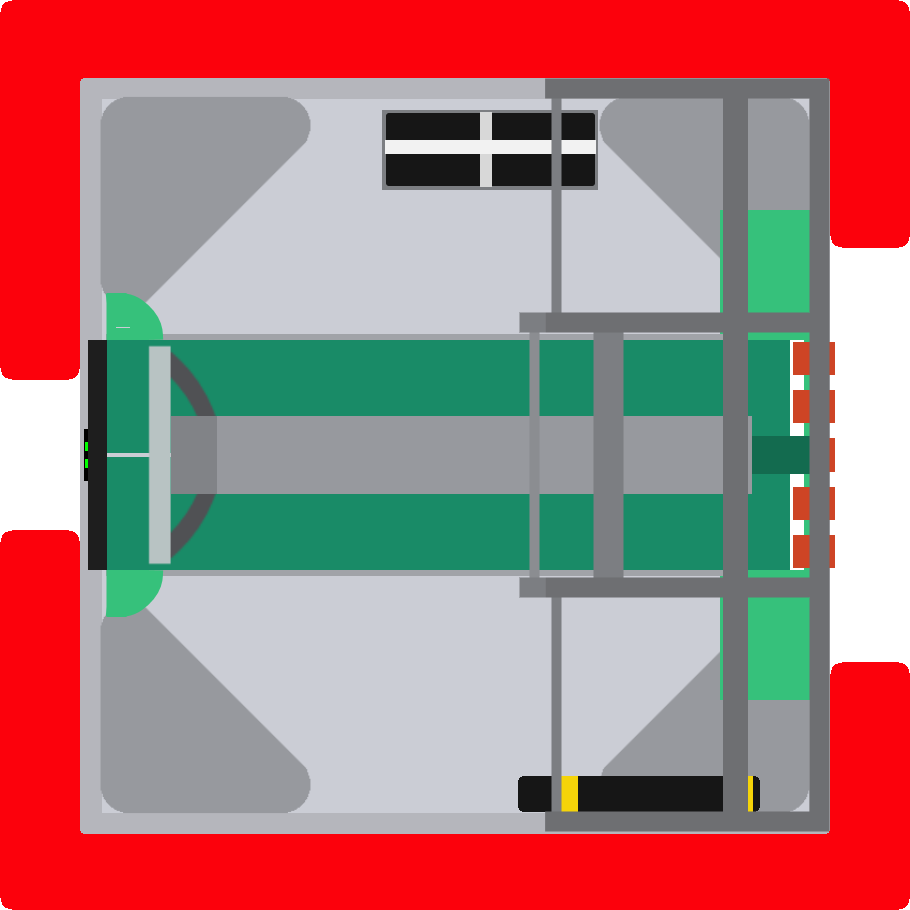
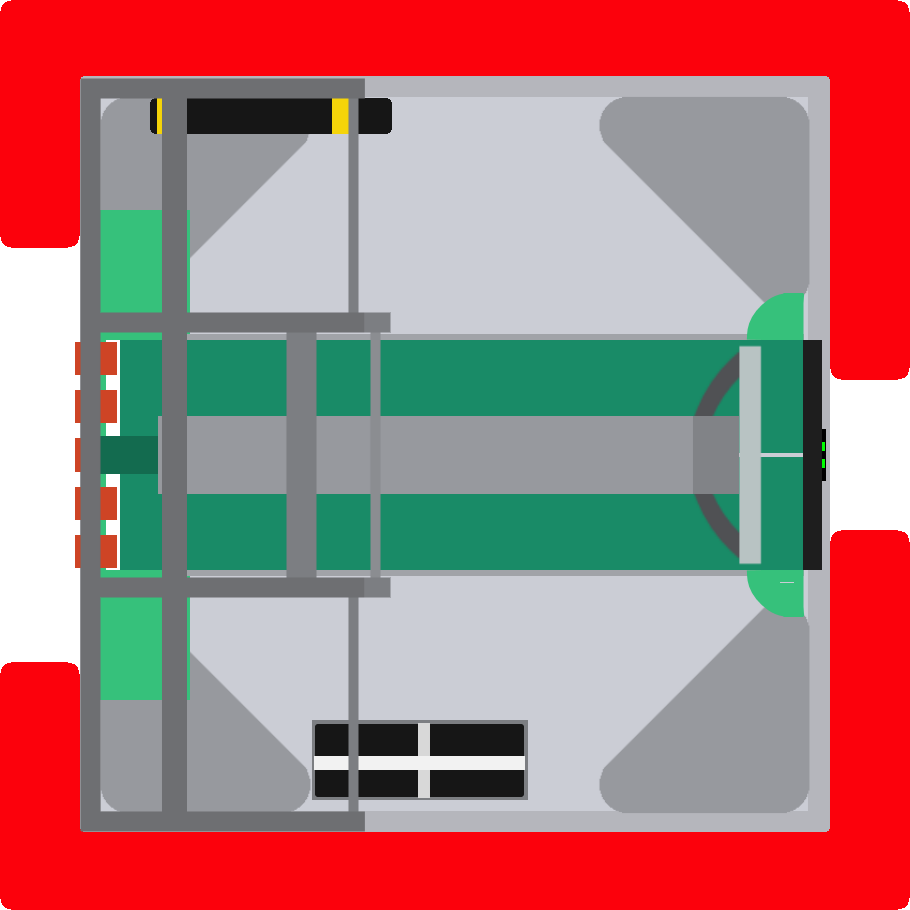
Working AutoPilot for above ramp to hub 1

diff --git a/src/obstacleavoiding/gui/Graph.java b/src/obstacleavoiding/gui/Graph.java
@@ -1,0 +1,141 @@
+package obstacleavoiding.gui;
+
+import javax.swing.*;
+import java.awt.*;
+import java.util.ArrayList;
+import java.util.List;
+import java.util.function.Supplier;
+
+public class Graph extends JPanel {
+
+    private static final int padding = 25;
+    private static final int labelPadding = 25;
+    private static final Color lineColor = new Color(44, 102, 230, 180);
+    private static final Color pointColor = new Color(100, 100, 100, 180);
+    private static final Color gridColor = new Color(200, 200, 200, 200);
+    private static final Stroke GRAPH_STROKE = new BasicStroke(2f);
+    private static final int pointWidth = 4;
+    private static final int numberYDivisions = 10;
+    private final Supplier<List<Double>> scores;
+
+    public Graph(Supplier<List<Double>> scores) {
+        this.scores = scores;
+
+        this.setPreferredSize(new Dimension(800, 800));
+        this.setLocation(0, 0);
+        this.setVisible(true);
+    }
+
+    @Override
+    protected void paintComponent(Graphics g) {
+        super.paintComponent(g);
+        Graphics2D g2 = (Graphics2D) g;
+        g2.setRenderingHint(RenderingHints.KEY_ANTIALIASING, RenderingHints.VALUE_ANTIALIAS_ON);
+
+        List<Double> scores = this.scores.get();
+
+        double xScale = ((double) getWidth() - (2 * padding) - labelPadding) / (scores.size() - 1);
+        double yScale = ((double) getHeight() - 2 * padding - labelPadding) / (getMaxScore() - getMinScore());
+
+        List<Point> graphPoints = new ArrayList<>();
+        for (int i = 0; i < scores.size(); i++) {
+            int x1 = (int) (i * xScale + padding + labelPadding);
+            int y1 = (int) ((getMaxScore() - scores.get(i)) * yScale + padding);
+            graphPoints.add(new Point(x1, y1));
+        }
+
+        // draw white background
+        g2.setColor(Color.WHITE);
+        g2.fillRect(padding + labelPadding, padding, getWidth() - (2 * padding) - labelPadding, getHeight() - 2 * padding - labelPadding);
+        g2.setColor(Color.BLACK);
+
+        // create hatch marks and grid lines for y-axis.
+        for (int i = 0; i < numberYDivisions + 1; i++) {
+            int x0 = padding + labelPadding;
+            int x1 = pointWidth + padding + labelPadding;
+            int y0 = getHeight() - ((i * (getHeight() - padding * 2 - labelPadding)) / numberYDivisions + padding + labelPadding);
+            if (scores.size() > 0) {
+                g2.setColor(gridColor);
+                g2.drawLine(padding + labelPadding + 1 + pointWidth, y0, getWidth() - padding, y0);
+                g2.setColor(Color.BLACK);
+                String yLabel = ((int) ((getMinScore() + (getMaxScore() - getMinScore()) * ((i * 1.0) / numberYDivisions)) * 10000)) / 10000.0 + "";
+                FontMetrics metrics = g2.getFontMetrics();
+                int labelWidth = metrics.stringWidth(yLabel);
+                g2.drawString(yLabel, x0 - labelWidth - 5, y0 + (metrics.getHeight() / 2) - 3);
+            }
+            g2.drawLine(x0, y0, x1, y0);
+        }
+
+        // and for x-axis
+        for (int i = 0; i < scores.size(); i++) {
+            if (scores.size() > 1) {
+                int x0 = i * (getWidth() - padding * 2 - labelPadding) / (scores.size() - 1) + padding + labelPadding;
+                int y0 = getHeight() - padding - labelPadding;
+                int y1 = y0 - pointWidth;
+                if ((i % ((int) ((scores.size() / 20.0)) + 1)) == 0) {
+                    g2.setColor(gridColor);
+                    g2.drawLine(x0, getHeight() - padding - labelPadding - 1 - pointWidth, x0, padding);
+                    g2.setColor(Color.BLACK);
+                    String xLabel = i + "";
+                    FontMetrics metrics = g2.getFontMetrics();
+                    int labelWidth = metrics.stringWidth(xLabel);
+                    g2.drawString(xLabel, x0 - labelWidth / 2, y0 + metrics.getHeight() + 3);
+                }
+                g2.drawLine(x0, y0, x0, y1);
+            }
+        }
+
+        // create x and y axes
+        g2.drawLine(padding + labelPadding, getHeight() - padding - labelPadding, padding + labelPadding, padding);
+        g2.drawLine(padding + labelPadding, getHeight() - padding - labelPadding, getWidth() - padding, getHeight() - padding - labelPadding);
+
+        Stroke oldStroke = g2.getStroke();
+        g2.setColor(lineColor);
+        g2.setStroke(GRAPH_STROKE);
+        for (int i = 0; i < graphPoints.size() - 1; i++) {
+            int x1 = graphPoints.get(i).x;
+            int y1 = graphPoints.get(i).y;
+            int x2 = graphPoints.get(i + 1).x;
+            int y2 = graphPoints.get(i + 1).y;
+            g2.drawLine(x1, y1, x2, y2);
+        }
+
+        g2.setStroke(oldStroke);
+        g2.setColor(pointColor);
+        for (Point graphPoint : graphPoints) {
+            int x = graphPoint.x - pointWidth / 2;
+            int y = graphPoint.y - pointWidth / 2;
+            g2.fillOval(x, y, pointWidth, pointWidth);
+        }
+    }
+
+    private double getMinScore() {
+        return scores.get().stream().mapToDouble(s -> s).min().orElse(0);
+    }
+
+    private double getMaxScore() {
+        double maxScore = Double.MIN_VALUE;
+        for (Double score : scores.get()) {
+            maxScore = Math.max(maxScore, score);
+        }
+        return maxScore;
+    }
+
+    public List<Double> getScores() {
+        return scores.get();
+    }
+
+    public static JFrame createAndShowGui(String title, Supplier<List<Double>> scores) {
+        Graph mainPanel = new Graph(scores);
+        mainPanel.setPreferredSize(new Dimension(800, 600));
+        mainPanel.setLocation(0, 0);
+        JFrame frame = new JFrame(title);
+        frame.setDefaultCloseOperation(JFrame.EXIT_ON_CLOSE);
+        frame.getContentPane().add(mainPanel);
+        frame.pack();
+        frame.setLocationRelativeTo(null);
+        frame.setVisible(true);
+
+        return frame;
+    }
+}

diff --git a/src/obstacleavoiding/path/PurePursuit.java b/src/obstacleavoiding/path/PurePursuit.java
@@ -1,23 +1,32 @@
 package obstacleavoiding.path;
 
+import obstacleavoiding.math.MathUtil;
 import obstacleavoiding.math.geometry.Pose2d;
 import obstacleavoiding.math.geometry.Rotation2d;
 import obstacleavoiding.math.geometry.Translation2d;
+import obstacleavoiding.path.pid.PIDController;
 import obstacleavoiding.path.pid.PIDPreset;
 import obstacleavoiding.path.pid.ProfiledPIDController;
 import obstacleavoiding.path.util.Waypoint;
 
+import javax.swing.*;
 import java.util.ArrayList;
 import java.util.Arrays;
 import java.util.List;
 
 public class PurePursuit {
+
     private final List<Waypoint> waypoints;
 
     private final ProfiledPIDController driveController;
+    private final PIDController angleController;
     private final ProfiledPIDController omegaController;
 
+    private final Constants constants;
+
     private final Robot robot;
+
+    private Rotation2d drivingAngle = null;
 
     private int currentWaypoint = 1;
     private boolean isFinished = false;
@@ -25,9 +34,12 @@ public class PurePursuit {
 
     public PurePursuit(Robot robot, Constants constants, List<Waypoint> waypoints) {
         this.robot = robot;
+        this.constants = constants;
         this.waypoints = waypoints;
 
         this.driveController = new ProfiledPIDController(constants.drivePreset);
+        this.angleController = new PIDController(0.35, 0, 0);
+        this.angleController.enableContinuousInput(-180, 180);
         this.omegaController = new ProfiledPIDController(constants.omegaPreset);
     }
 
@@ -37,17 +49,45 @@ public class PurePursuit {
 
     public void update() {
         if (this.isRunning && !this.isFinished) {
-            Pose2d velocity = new Pose2d(
-                    new Translation2d(
-                            this.driveController.calculate(this.getDistanceToFinalWaypoint()),
-                            this.robot.getPosition().getTranslation().minus(this.getCurrentWaypoint()).getAngle()
-                    ),
-                    Rotation2d.fromDegrees(
-                            this.omegaController.calculate(this.robot.getPosition().getRotation().getDegrees(),
-                                    this.getCurrentWaypoint().getHeading()))
-            );
+            double distance = this.getDistanceToFinalWaypoint();
+            double velocity = -this.driveController.calculate(distance, 0);
+            double omega = this.omegaController.calculate(this.robot.getPosition().getRotation().getDegrees(), this.getCurrentWaypoint().getHeading());
 
-            this.robot.drive(velocity);
+            Rotation2d targetDrivingAngle = this.getCurrentWaypoint().minus(this.robot.getPosition().getTranslation()).getAngle();
+            if (this.drivingAngle == null || Math.abs(velocity) <= 0.4
+                    || Math.abs(drivingAngle.minus(targetDrivingAngle).getDegrees()) <= 15) {
+                drivingAngle = targetDrivingAngle;
+            } else {
+                drivingAngle = drivingAngle.rotateBy(Rotation2d.fromDegrees(
+                        angleController.calculate(drivingAngle.getDegrees(), targetDrivingAngle.getDegrees())));
+            }
+
+            this.robot.drive(new Pose2d(
+                    new Translation2d(velocity, drivingAngle),
+                    Rotation2d.fromDegrees(omega)
+            ));
+
+//            Pose2d vector = new Pose2d(
+//                    new Translation2d(
+//                            this.driveController.calculate(this.getDistanceToFinalWaypoint()),
+//                            this.angleController.calculate(
+//                                    this.robot.getVelocity().getTranslation().getAngle().getDegrees(),
+//                                    this.robot.getPosition().getTranslation().minus(this.getCurrentWaypoint()).getAngle().getDegrees()
+//                            )
+//                    ),
+//                    Rotation2d.fromDegrees(
+//                            this.omegaController.calculate(this.robot.getPosition().getRotation().getDegrees(),
+//                                    this.getCurrentWaypoint().getHeading()))
+//            );
+//
+//            Rotation2d angleAccel = this.robot.getVelocity().getTranslation().getAngle().minus(vector.getTranslation().getAngle());
+//            double velocity = Math.min(vector.getTranslation().getNorm(), this.constants.maxVel) - Math.tan(5 * angleAccel.getRadians());
+//
+//            this.robot.drive(new Pose2d(
+//                    new Translation2d(velocity,
+//                            ))),
+//                    vector.getRotation()
+//            ));
 
             if (this.getCurrentWaypoint().isPassedWaypoint(this.robot)) {
                 this.currentWaypoint++;
@@ -61,6 +101,10 @@ public class PurePursuit {
     public void reset() {
         this.currentWaypoint = 1;
         this.robot.setPosition(new Pose2d(this.getStartWaypoint(), Rotation2d.fromDegrees(this.getStartWaypoint().getHeading())));
+        this.robot.drive(new Pose2d());
+
+        this.drivingAngle = null;
+
         this.resetControllers();
         this.isFinished = false;
     }
@@ -139,5 +183,5 @@ public class PurePursuit {
         this.waypoints.set(index, waypoint);
     }
 
-    public record Constants(PIDPreset drivePreset, PIDPreset omegaPreset) {}
+    public record Constants(double maxVel, PIDPreset drivePreset, PIDPreset omegaPreset) {}
 }

diff --git a/src/obstacleavoiding/path/GUI.java b/src/obstacleavoiding/path/GUI.java
@@ -11,17 +11,21 @@ import obstacleavoiding.math.geometry.Translation2d;
 import obstacleavoiding.path.pid.PIDPreset;
 import obstacleavoiding.path.util.Waypoint;
 
+import java.util.List;
+
 import javax.swing.*;
 import java.awt.*;
 import java.awt.event.KeyEvent;
 import java.awt.event.MouseEvent;
 import java.awt.event.MouseWheelEvent;
+import java.util.ArrayList;
 
 public class GUI extends Frame implements ZeroCenter, DrawCentered {
     private static final boolean IS_CHARGED_UP_FIELD = true;
 
-    private static final double DEFAULT_MAX_VALUE = 10;
+    private static final double DEFAULT_MAX_VALUE = 8.27;
     private static final Dimension2d DIMENSION = new Dimension2d(1713, 837);
+    private static final double DEFAULT_MAX_Y = DEFAULT_MAX_VALUE * ((double) DIMENSION.getY() / DIMENSION.getX());
     private static final double PIXELS_IN_ONE_UNIT = convertMaxValueToPixels(DEFAULT_MAX_VALUE);
 
     private static final double FPS = 20;
@@ -33,6 +37,8 @@ public class GUI extends Frame implements ZeroCenter, DrawCentered {
     private final PurePursuit purePursuit;
     private final Robot robot;
 
+    private final List<Double> velocities = new ArrayList<>();
+
     private double maxValue = DEFAULT_MAX_VALUE;
 
     public GUI() {
@@ -43,16 +49,18 @@ public class GUI extends Frame implements ZeroCenter, DrawCentered {
 
         this.purePursuit = new PurePursuit(
                 this.robot,
-                new PurePursuit.Constants(
+                new PurePursuit.Constants(4.5,
                         new PIDPreset(2, 0, 0, 1, 10),
                         new PIDPreset(2, 0, 0, 5, 10)
                 ),
                 new Waypoint(0, 0, (r, w) -> true),
-                new Waypoint(1, 0, (r, w) -> Math.abs(r.getPosition().getX()) + 0.1 > Math.abs(w.getX()) &&
-                        MathUtil.inTolerance(r.getPosition().getY(), w.getY(), 0.3)),
-                new Waypoint(1, 2, (r, w) -> MathUtil.inTolerance(r.getPosition().getTranslation().getY(), w.getY(), 0.4)),
-                new Waypoint(1, 1, (r, w) -> r.getPosition().getTranslation().getDistance(w) <= 0.05)
+                new Waypoint(DEFAULT_MAX_VALUE - 2.8, 4.585 - DEFAULT_MAX_Y, (r, w) -> Math.abs(r.getPosition().getX()) + 0.2 > Math.abs(w.getX()) &&
+                        MathUtil.inTolerance(r.getPosition().getY(), w.getY(), 0.5)),
+                new Waypoint(DEFAULT_MAX_VALUE - 1.9 - 0.3, 0.5112 - DEFAULT_MAX_Y, (r, w) -> MathUtil.inTolerance(r.getPosition().getTranslation().getY(), w.getY(), 0.4)),
+                new Waypoint(DEFAULT_MAX_VALUE - 1.9, 0.5112 - DEFAULT_MAX_Y, (r, w) -> r.getPosition().getTranslation().getDistance(w) <= 0.05)
         );
+
+        this.addGraph("Velocities", () -> velocities);
 
         this.purePursuit.reset();
         this.start();
@@ -110,6 +118,12 @@ public class GUI extends Frame implements ZeroCenter, DrawCentered {
         }
     }
 
+    public void updateValues() {
+        if (this.purePursuit.isRunning() && !this.purePursuit.isFinished()) {
+            this.velocities.add(this.robot.getVelocity().getTranslation().getNorm());
+        }
+    }
+
     @Override
     public void mouseDragged(MouseEvent e) {
         Translation2d mouseLocation = this.getMouseTranslation(e);
@@ -127,6 +141,7 @@ public class GUI extends Frame implements ZeroCenter, DrawCentered {
     public void keyPressed(KeyEvent e) {
         if (e.getKeyChar() == 'r' || e.getKeyChar() == 'R') {
             this.purePursuit.reset();
+            this.velocities.clear();
         } else if (e.getKeyChar() == 't' || e.getKeyChar() == 'T') {
             this.purePursuit.setRunning(!this.purePursuit.isRunning());
         }
@@ -149,6 +164,7 @@ public class GUI extends Frame implements ZeroCenter, DrawCentered {
             this.clearFrame();
             this.drawBackground();
             this.purePursuit.update();
+            this.updateValues();
             this.displayRobot();
             this.writeValues();
             this.repaint();

diff --git a/src/obstacleavoiding/gui/Frame.java b/src/obstacleavoiding/gui/Frame.java
@@ -10,6 +10,7 @@ import java.util.ArrayList;
 import java.util.ConcurrentModificationException;
 import java.util.List;
 import java.util.function.Consumer;
+import java.util.function.Supplier;
 
 @SuppressWarnings(value = "unused")
 public abstract class Frame extends JFrame implements FieldType, DrawType {
@@ -17,6 +18,8 @@ public abstract class Frame extends JFrame implements FieldType, DrawType {
     private final Dimension2d dimension;
 
     private double pixelsInOneUnit;
+
+    private final List<JFrame> graphs = new ArrayList<>();
 
     public Frame(String title, Dimension2d frameSize, Color background, double pixelsInOneUnit) {
         super(title);
@@ -48,6 +51,12 @@ public abstract class Frame extends JFrame implements FieldType, DrawType {
         this(title, frameSize, Color.WHITE, 1);
     }
 
+    @Override
+    public void repaint() {
+        super.repaint();
+        this.graphs.forEach(Component::repaint);
+    }
+
     public Dimension2d convertDimension(Dimension2d dimension) {
         return new Dimension2d(convertX(dimension.getX(), this.dimension), convertY(dimension.getY(), this.dimension));
     }
@@ -71,6 +80,13 @@ public abstract class Frame extends JFrame implements FieldType, DrawType {
 
     protected int convertYWithSize(double y, double size, Dimension2d dimension) {
         return convertY(convertYWithSize(y, size), dimension);
+    }
+
+    public void addGraph(String title, Supplier<List<Double>> values) {
+        JFrame graph = Graph.createAndShowGui(title, values);
+        graph.addKeyListener(new KeyHandler());
+        graph.addMouseListener(new MouseHandler());
+        graphs.add(graph);
     }
 
     public void clearFrame() {
